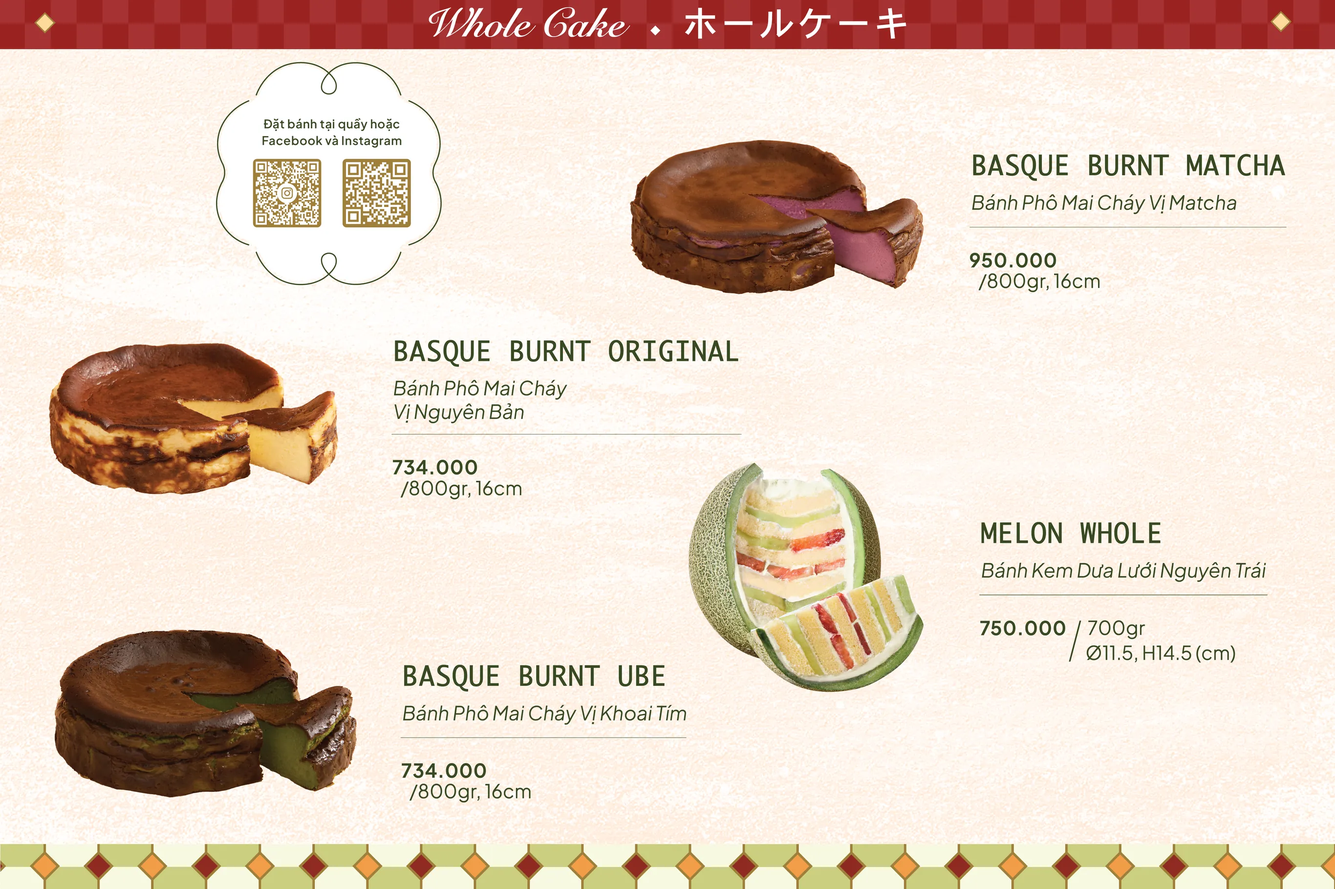
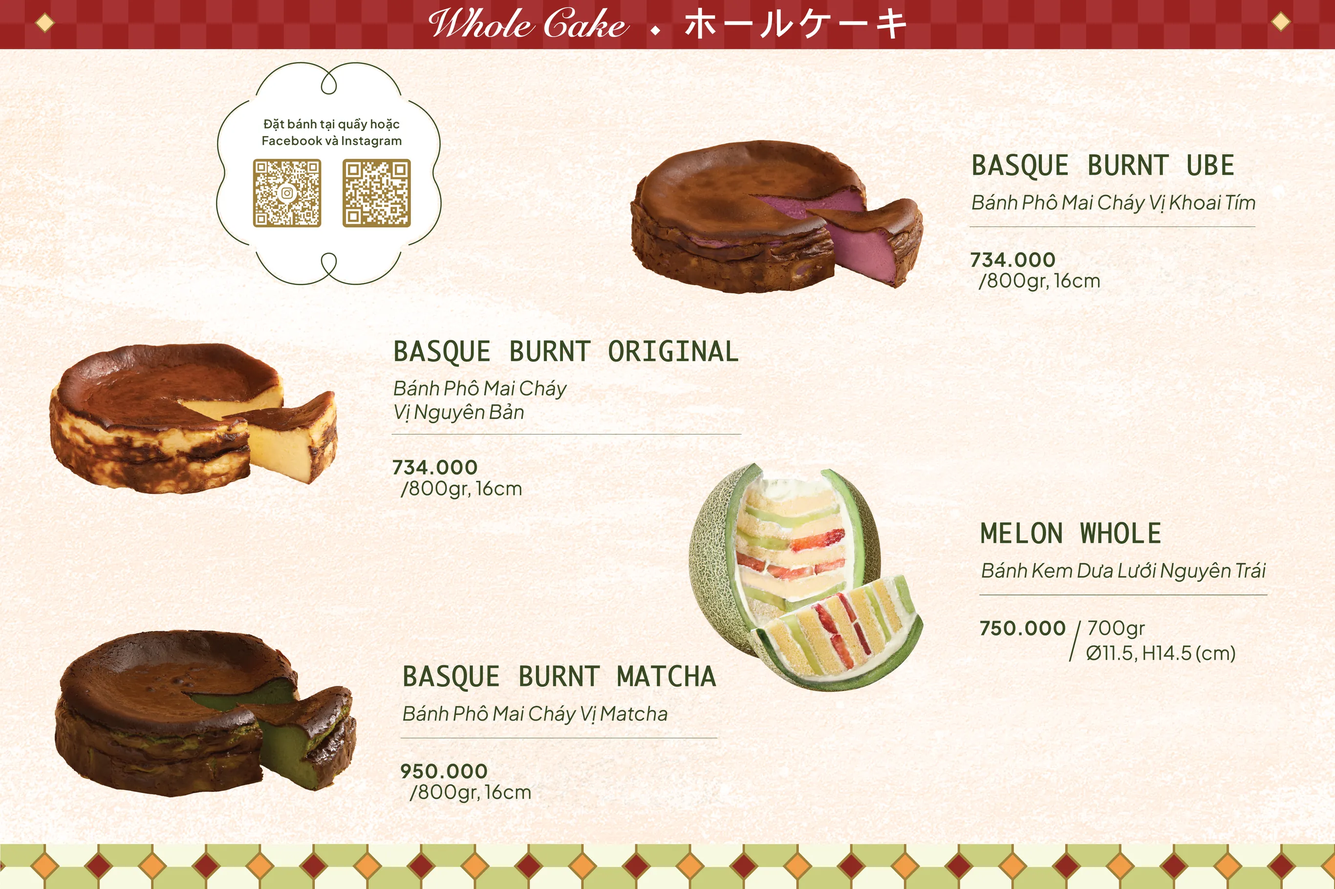
fix(intro): menu board page 20 labels the ube and matcha basque correctly
The ube-cut cake carried the Matcha name and 950.000, the matcha-cut cake
the Ube name and 734.000. The two text blocks are swapped, so each cake
shows its own name and catalog price.

diff --git a/web-intro/menu-board.html b/web-intro/menu-board.html
@@ -149,7 +149,7 @@ button:focus-visible { outline: 3px solid var(--berry); outline-offset: 3px; }
   const deck = $('deck'), count = $('count'), prev = $('prev'), next = $('next'), fs = $('fs');
   const idle = $('idle'), idleText = $('idleText'), idleFill = $('idleFill');
   // Images are cached for a week: bump a page's revision when its image changes.
-  const REV = { 8: 2, 9: 3 };
+  const REV = { 8: 2, 9: 3, 20: 2 };
   const src = (n) => `/img/menu-board/p${String(n).padStart(2, '0')}.webp${REV[n] ? `?v=${REV[n]}` : ''}`;
   const kindOf = (real) => (real < MENUS.drinks.length ? 'drinks' : 'cakes');
 
